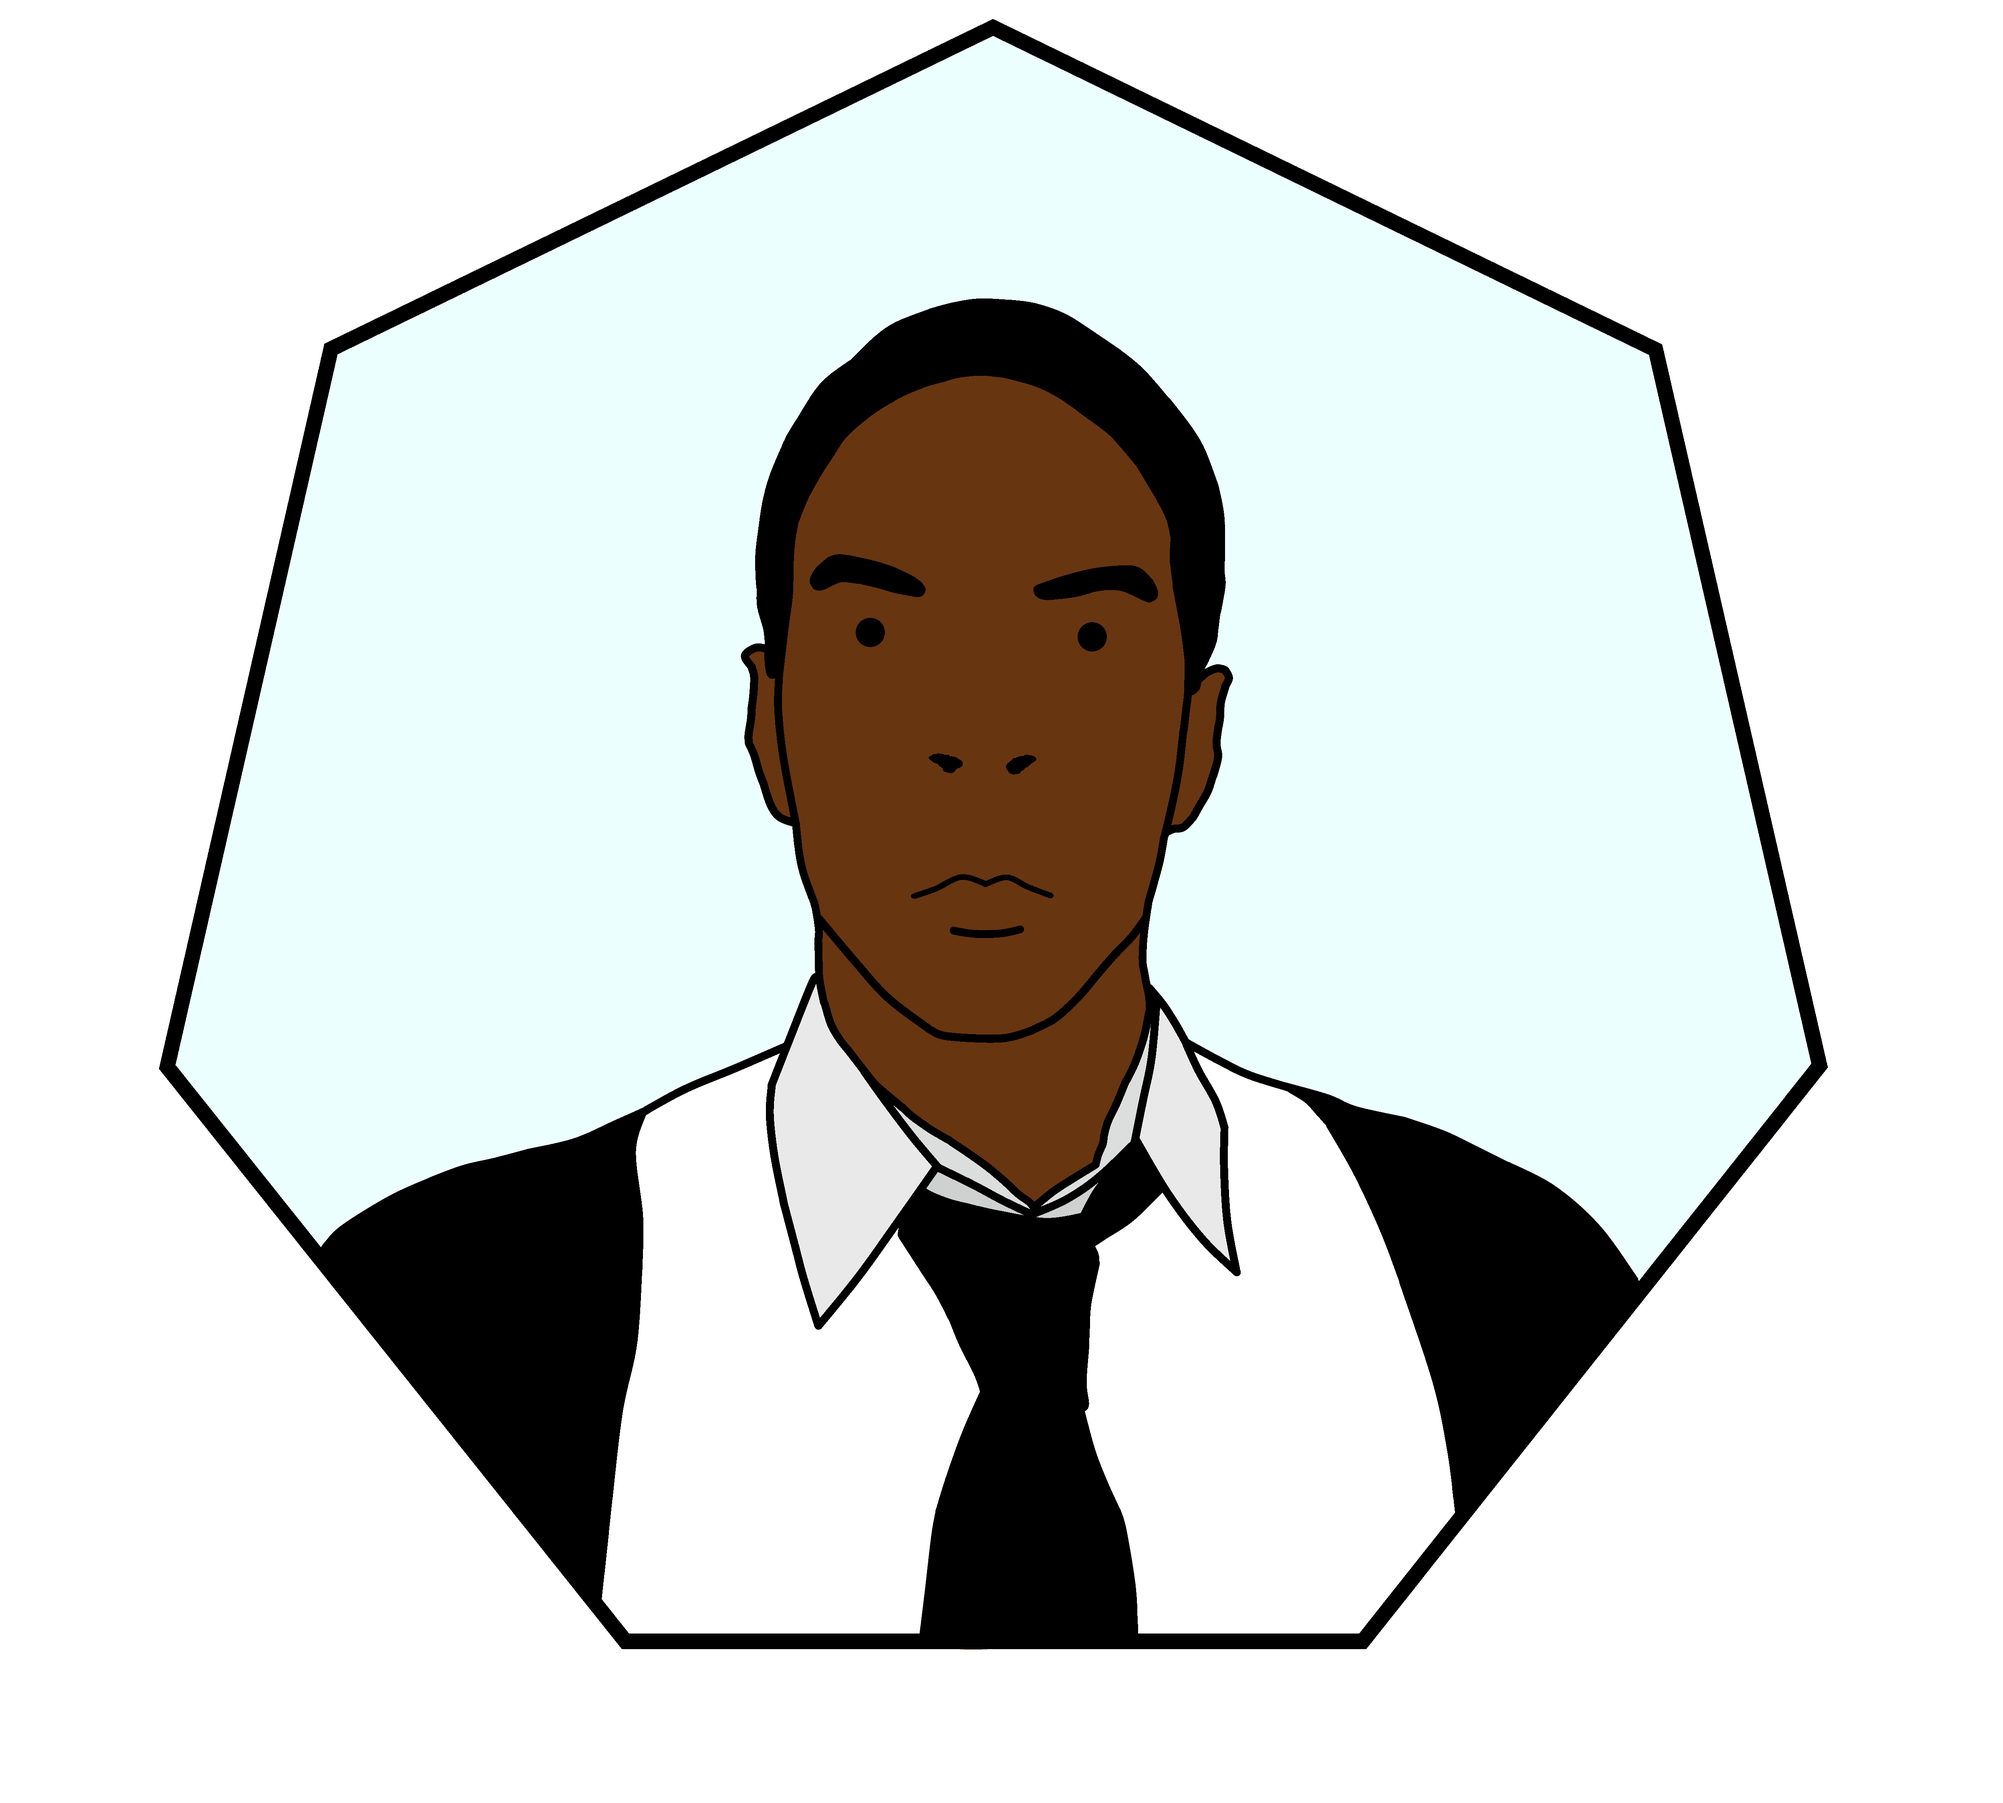
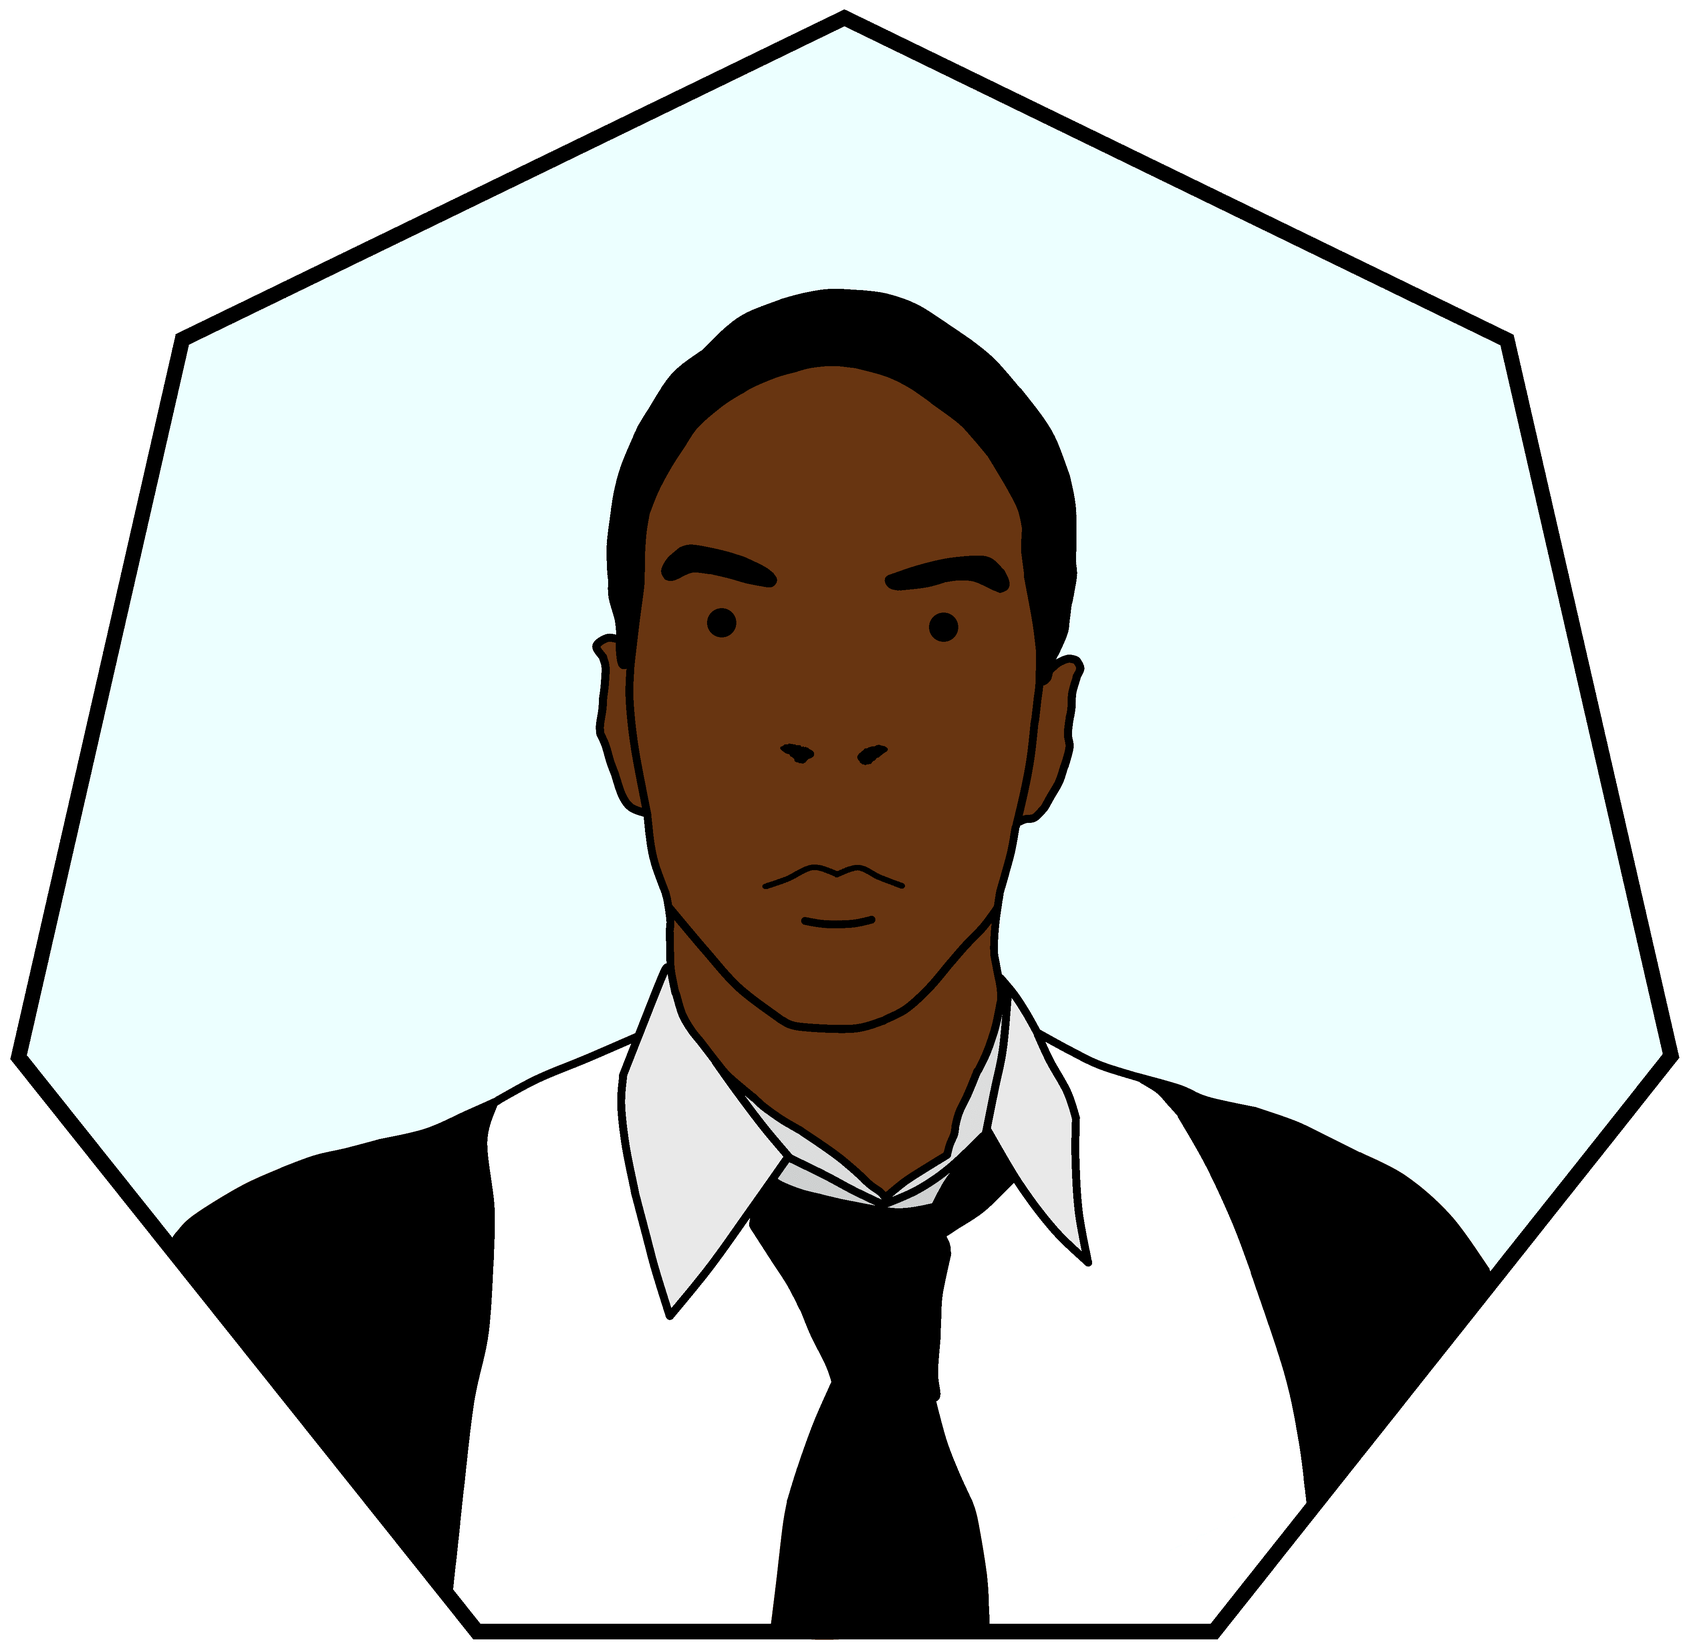
Fixed sidebar location on index page
Optimised face logo image for the web.
Started building responsive layout.

diff --git a/Nyakeh/index.html b/Nyakeh/index.html
@@ -14,22 +14,23 @@
     </ul></nav>
 </header>
 <div id="body">
-    <div id="content">
-    <div id="landing">
-        <div><h2>Hello World</h2></div>
+    <div id="page">
+        <div id="landing">
+            <div><h2>Hello World</h2></div>
 
-        <p>Lorem ipsum dolor sit amet, consectetur adipiscing elit. Proin malesuada mauris ac turpis vehicula, vel porta mi cursus. Vestibulum porttitor auctor dolor sit amet scelerisque. Curabitur pellentesque nisl a diam pretium, eget ultricies ligula condimentum. Vestibulum aliquam viverra augue a commodo. Nulla laoreet odio nec justo pulvinar, ac dictum lacus imperdiet. Donec gravida arcu neque, vel ornare arcu tincidunt a. Nulla scelerisque laoreet leo. Vestibulum venenatis, arcu in semper ultrices, urna mauris interdum urna, vitae interdum nisl leo sit amet mi. </p>
-        <p>Vivamus fermentum semper porta. Nunc diam velit, adipiscing ut tristique vitae, sagittis vel odio. Maecenas convallis ullamcorper ultricies. Curabitur ornare, ligula semper consectetur sagittis, nisi diam iaculis velit, id fringilla sem nunc vel mi. Nam dictum, odio nec pretium volutpat, arcu ante placerat erat, non tristique elit urna et turpis. Quisque mi metus, ornare sit amet fermentum et, tincidunt et orci. Fusce eget orci a orci congue vestibulum. Ut dolor diam, elementum et vestibulum eu, porttitor vel elit. Curabitur venenatis pulvinar tellus gravida ornare. Sed et erat faucibus nunc euismod ultricies ut id justo. Nullam cursus suscipit nisi, et ultrices justo sodales nec. Fusce venenatis facilisis lectus ac semper. Aliquam at massa ipsum. Quisque bibendum purus convallis nulla ultrices ultricies. Nullam aliquam, mi eu aliquam tincidunt, purus velit laoreet tortor, viverra pretium nisi quam vitae mi. Fusce vel volutpat elit. Nam sagittis nisi dui.</p>
-        <p>Suspendisse lectus leo, consectetur in tempor sit amet, placerat quis neque. Etiam luctus porttitor lorem, sed suscipit est rutrum non. Curabitur lobortis nisl a enim congue semper. Aenean commodo ultrices imperdiet. Vestibulum ut justo vel sapien venenatis tincidunt. Phasellus eget dolor sit amet ipsum dapibus condimentum vitae quis lectus. Aliquam ut massa in turpis dapibus convallis. Praesent elit lacus, vestibulum at malesuada et, ornare et est. Ut augue nunc, sodales ut euismod non, adipiscing vitae orci. Mauris ut placerat justo. Mauris in ultricies enim. Quisque nec est eleifend nulla ultrices egestas quis ut quam. Donec sollicitudin lectus a mauris pulvinar id aliquam urna cursus. Cras quis ligula sem, vel elementum mi. Phasellus non ullamcorper urna.</p>
-    </div>
+            <p>Lorem ipsum dolor sit amet, consectetur adipiscing elit. Proin malesuada mauris ac turpis vehicula, vel porta mi cursus. Vestibulum porttitor auctor dolor sit amet scelerisque. Curabitur pellentesque nisl a diam pretium, eget ultricies ligula condimentum. Vestibulum aliquam viverra augue a commodo. Nulla laoreet odio nec justo pulvinar, ac dictum lacus imperdiet. Donec gravida arcu neque, vel ornare arcu tincidunt a. Nulla scelerisque laoreet leo. Vestibulum venenatis, arcu in semper ultrices, urna mauris interdum urna, vitae interdum nisl leo sit amet mi. </p>
+            <p>Vivamus fermentum semper porta. Nunc diam velit, adipiscing ut tristique vitae, sagittis vel odio. Maecenas convallis ullamcorper ultricies. Curabitur ornare, ligula semper consectetur sagittis, nisi diam iaculis velit, id fringilla sem nunc vel mi. Nam dictum, odio nec pretium volutpat, arcu ante placerat erat, non tristique elit urna et turpis. Quisque mi metus, ornare sit amet fermentum et, tincidunt et orci. Fusce eget orci a orci congue vestibulum. Ut dolor diam, elementum et vestibulum eu, porttitor vel elit. Curabitur venenatis pulvinar tellus gravida ornare. Sed et erat faucibus nunc euismod ultricies ut id justo. Nullam cursus suscipit nisi, et ultrices justo sodales nec. Fusce venenatis facilisis lectus ac semper. Aliquam at massa ipsum. Quisque bibendum purus convallis nulla ultrices ultricies. Nullam aliquam, mi eu aliquam tincidunt, purus velit laoreet tortor, viverra pretium nisi quam vitae mi. Fusce vel volutpat elit. Nam sagittis nisi dui.</p>
+            <p>Suspendisse lectus leo, consectetur in tempor sit amet, placerat quis neque. Etiam luctus porttitor lorem, sed suscipit est rutrum non. Curabitur lobortis nisl a enim congue semper. Aenean commodo ultrices imperdiet. Vestibulum ut justo vel sapien venenatis tincidunt. Phasellus eget dolor sit amet ipsum dapibus condimentum vitae quis lectus. Aliquam ut massa in turpis dapibus convallis. Praesent elit lacus, vestibulum at malesuada et, ornare et est. Ut augue nunc, sodales ut euismod non, adipiscing vitae orci. Mauris ut placerat justo. Mauris in ultricies enim. Quisque nec est eleifend nulla ultrices egestas quis ut quam. Donec sollicitudin lectus a mauris pulvinar id aliquam urna cursus. Cras quis ligula sem, vel elementum mi. Phasellus non ullamcorper urna.</p>
         </div>
-    <div id="sidebar">
-    <div id="s_face"></div>
-    <div id="s_links">
-        <p>The Social Networks</p>
-        <a href="https://twitter.com/nyakehrogers"><img src="img/twitter.png" class="s_social"></a>
-        <a href="http://instagram.com/nyakehrogers"><img src="img/instagram.png" class="s_social"></a>
-    </div>
+        <div id="sidebar">
+            <div id="s_face"></div>
+            <div id="s_links">
+                <p>The Social Networks</p>
+                <a href="#"><img src="img/linkedin.png" class="s_social"></a>
+                <a href="https://twitter.com/nyakehrogers"><img src="img/twitter.png" class="s_social"></a>
+                <a href="http://instagram.com/nyakehrogers"><img src="img/instagram.png" class="s_social"></a>
+            </div>
+        </div>
     </div>
 </div>
 

diff --git a/Nyakeh/style.css b/Nyakeh/style.css
@@ -6,7 +6,8 @@ body {
     background: #f2fafd;
     margin: 0;
     height: 100%;
-    min-width: 830px;
+    width: 100%;
+    min-width: 630px;
 }
 header {
     background: #b0e1f3;
@@ -103,18 +104,34 @@ section h3 {
     right: 0;
     margin: 0;
 }
+#page {
+    overflow: auto;
+}
+#landing {
+    display: block;
+    float: left;
+    max-width: 800px;
+    min-width: 400px;
+    margin: 0 50px;
+    padding: 20px;
+}
 #sidebar {
+    display: block;
     float: right;
-    width: 150px;
+    width: 200px;
+    margin: 40px 20px 0 0;
 }
 #s_face {
-    background: url("img/faceHex.png");
+    background: url("img/face.png");
     background-size: contain;
     background-repeat: no-repeat;
-    height: 114px;
+    height: 194px;
+}
+#s_links p {
+    text-align: center;
 }
 .s_social {
-    width: 57px;
+    width: 64px;
 }
 footer {
     width: 100%;
